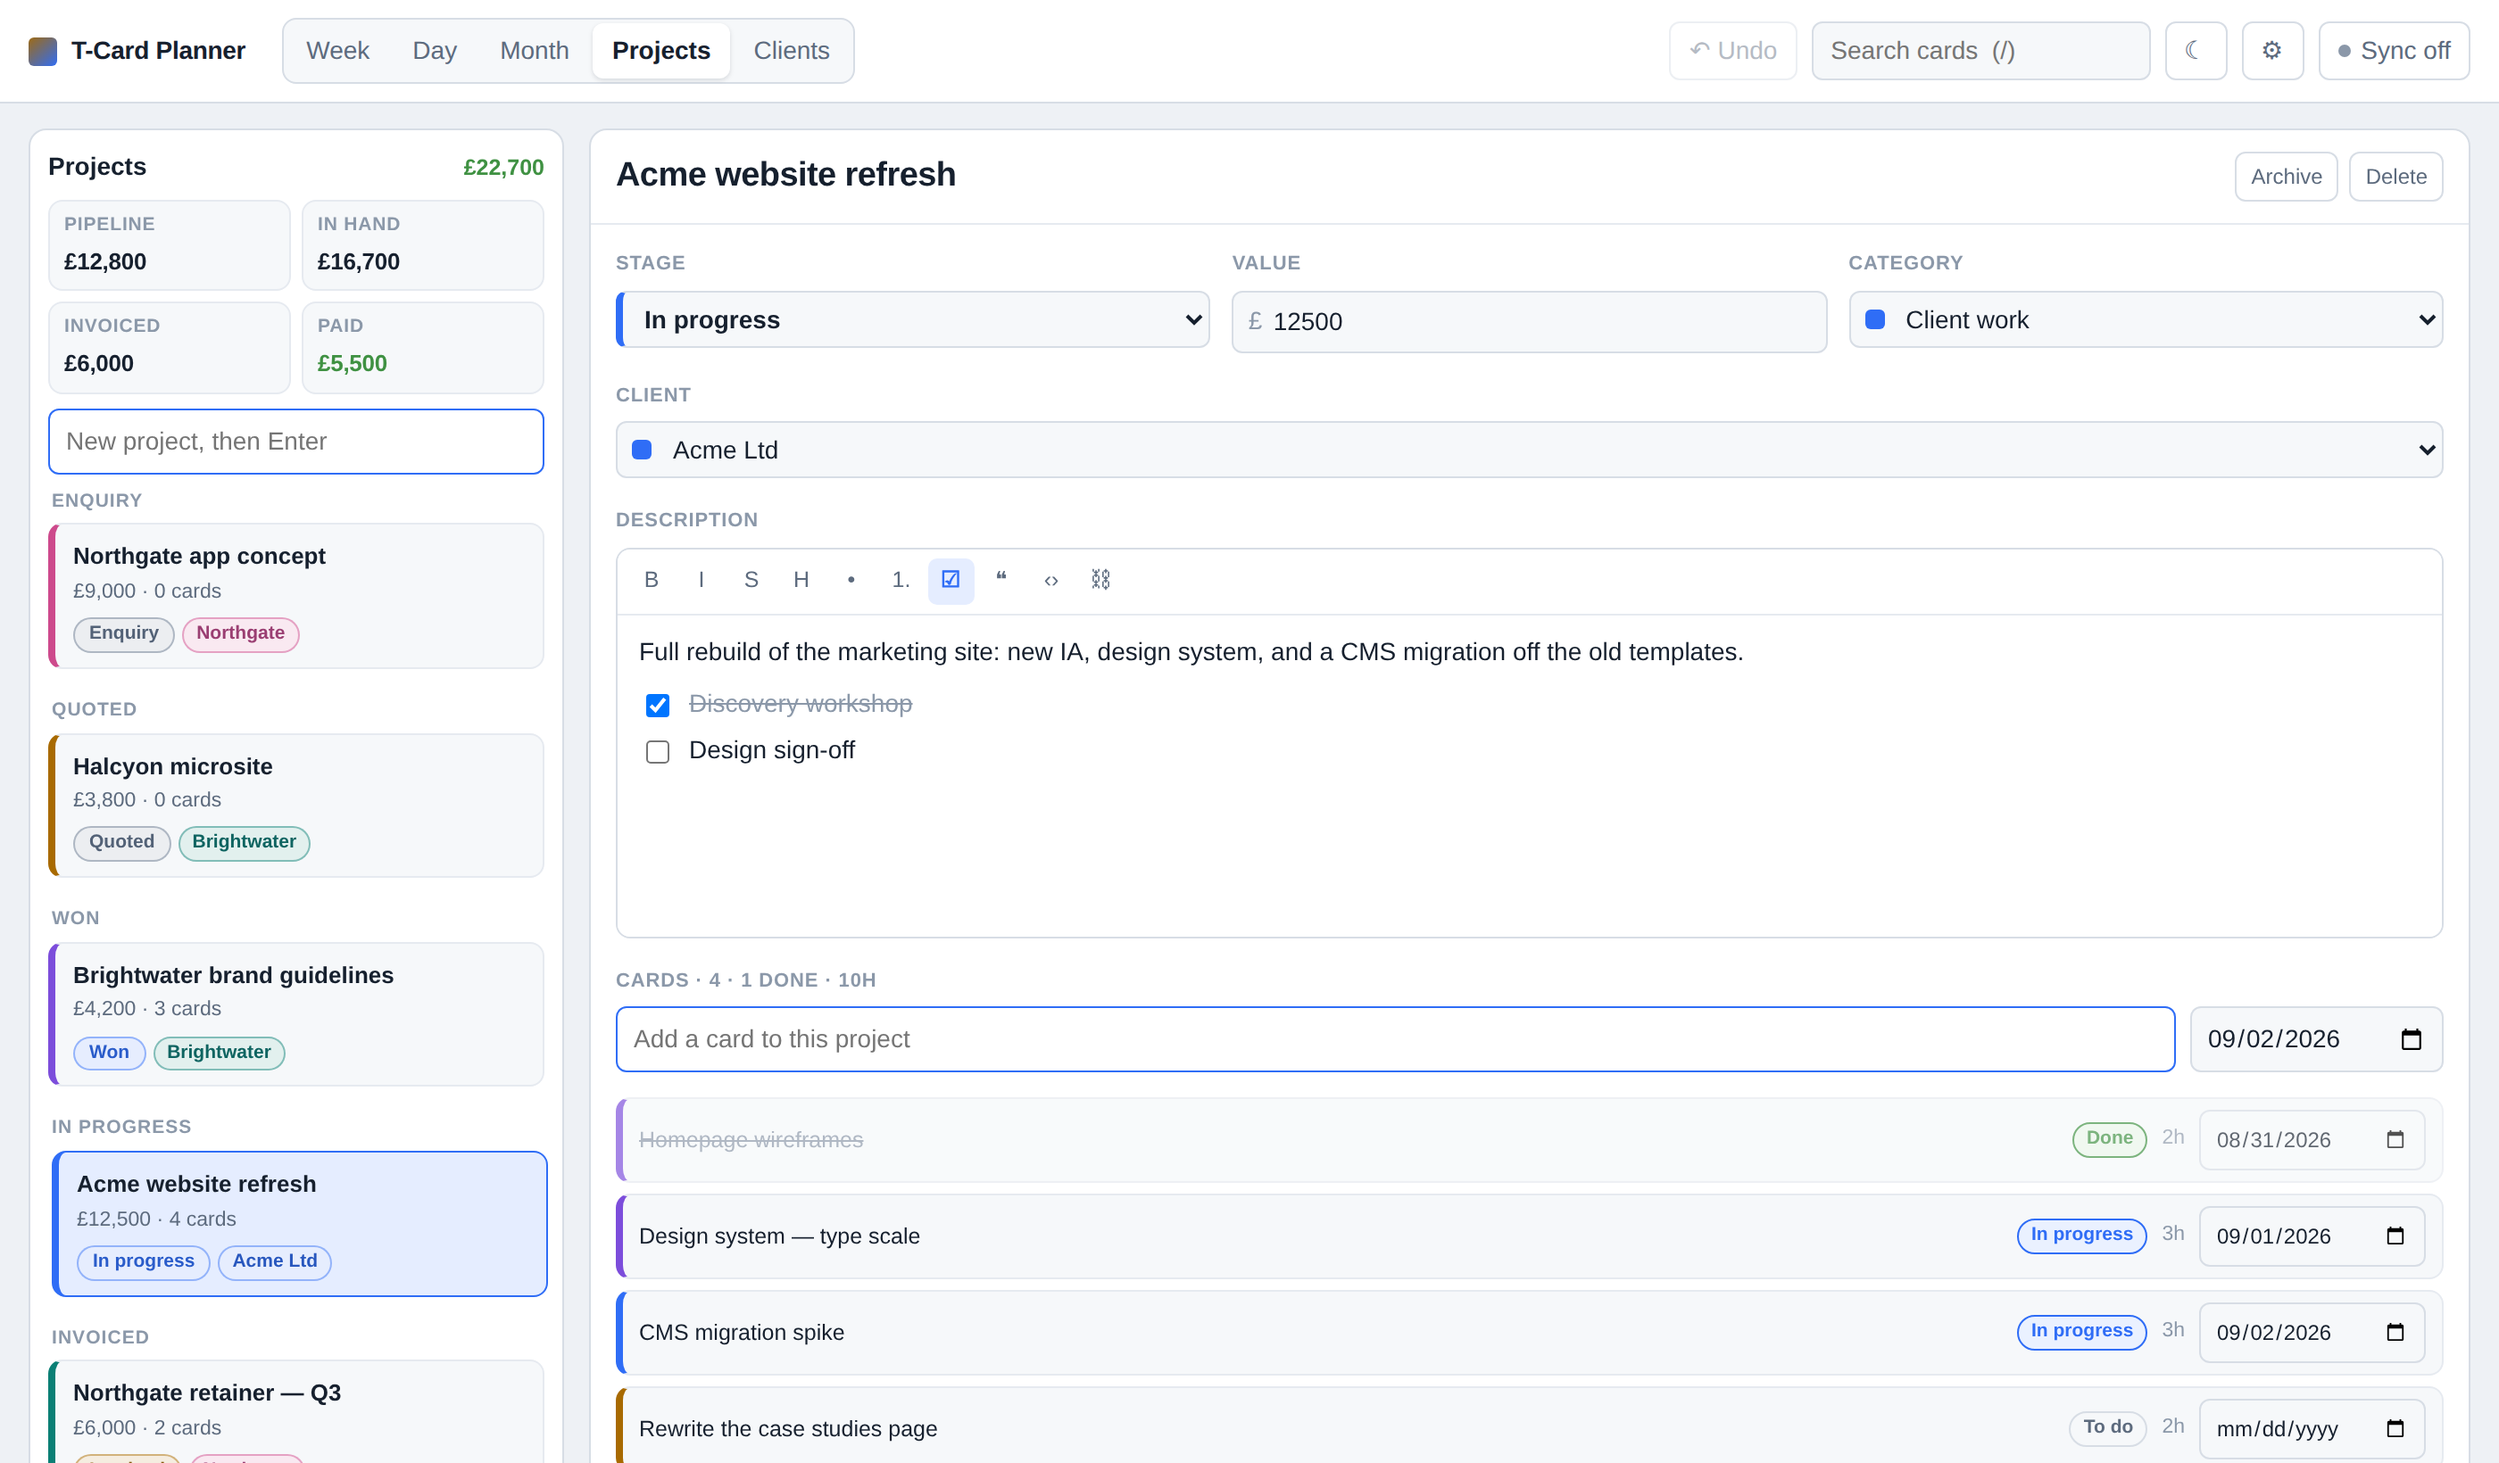
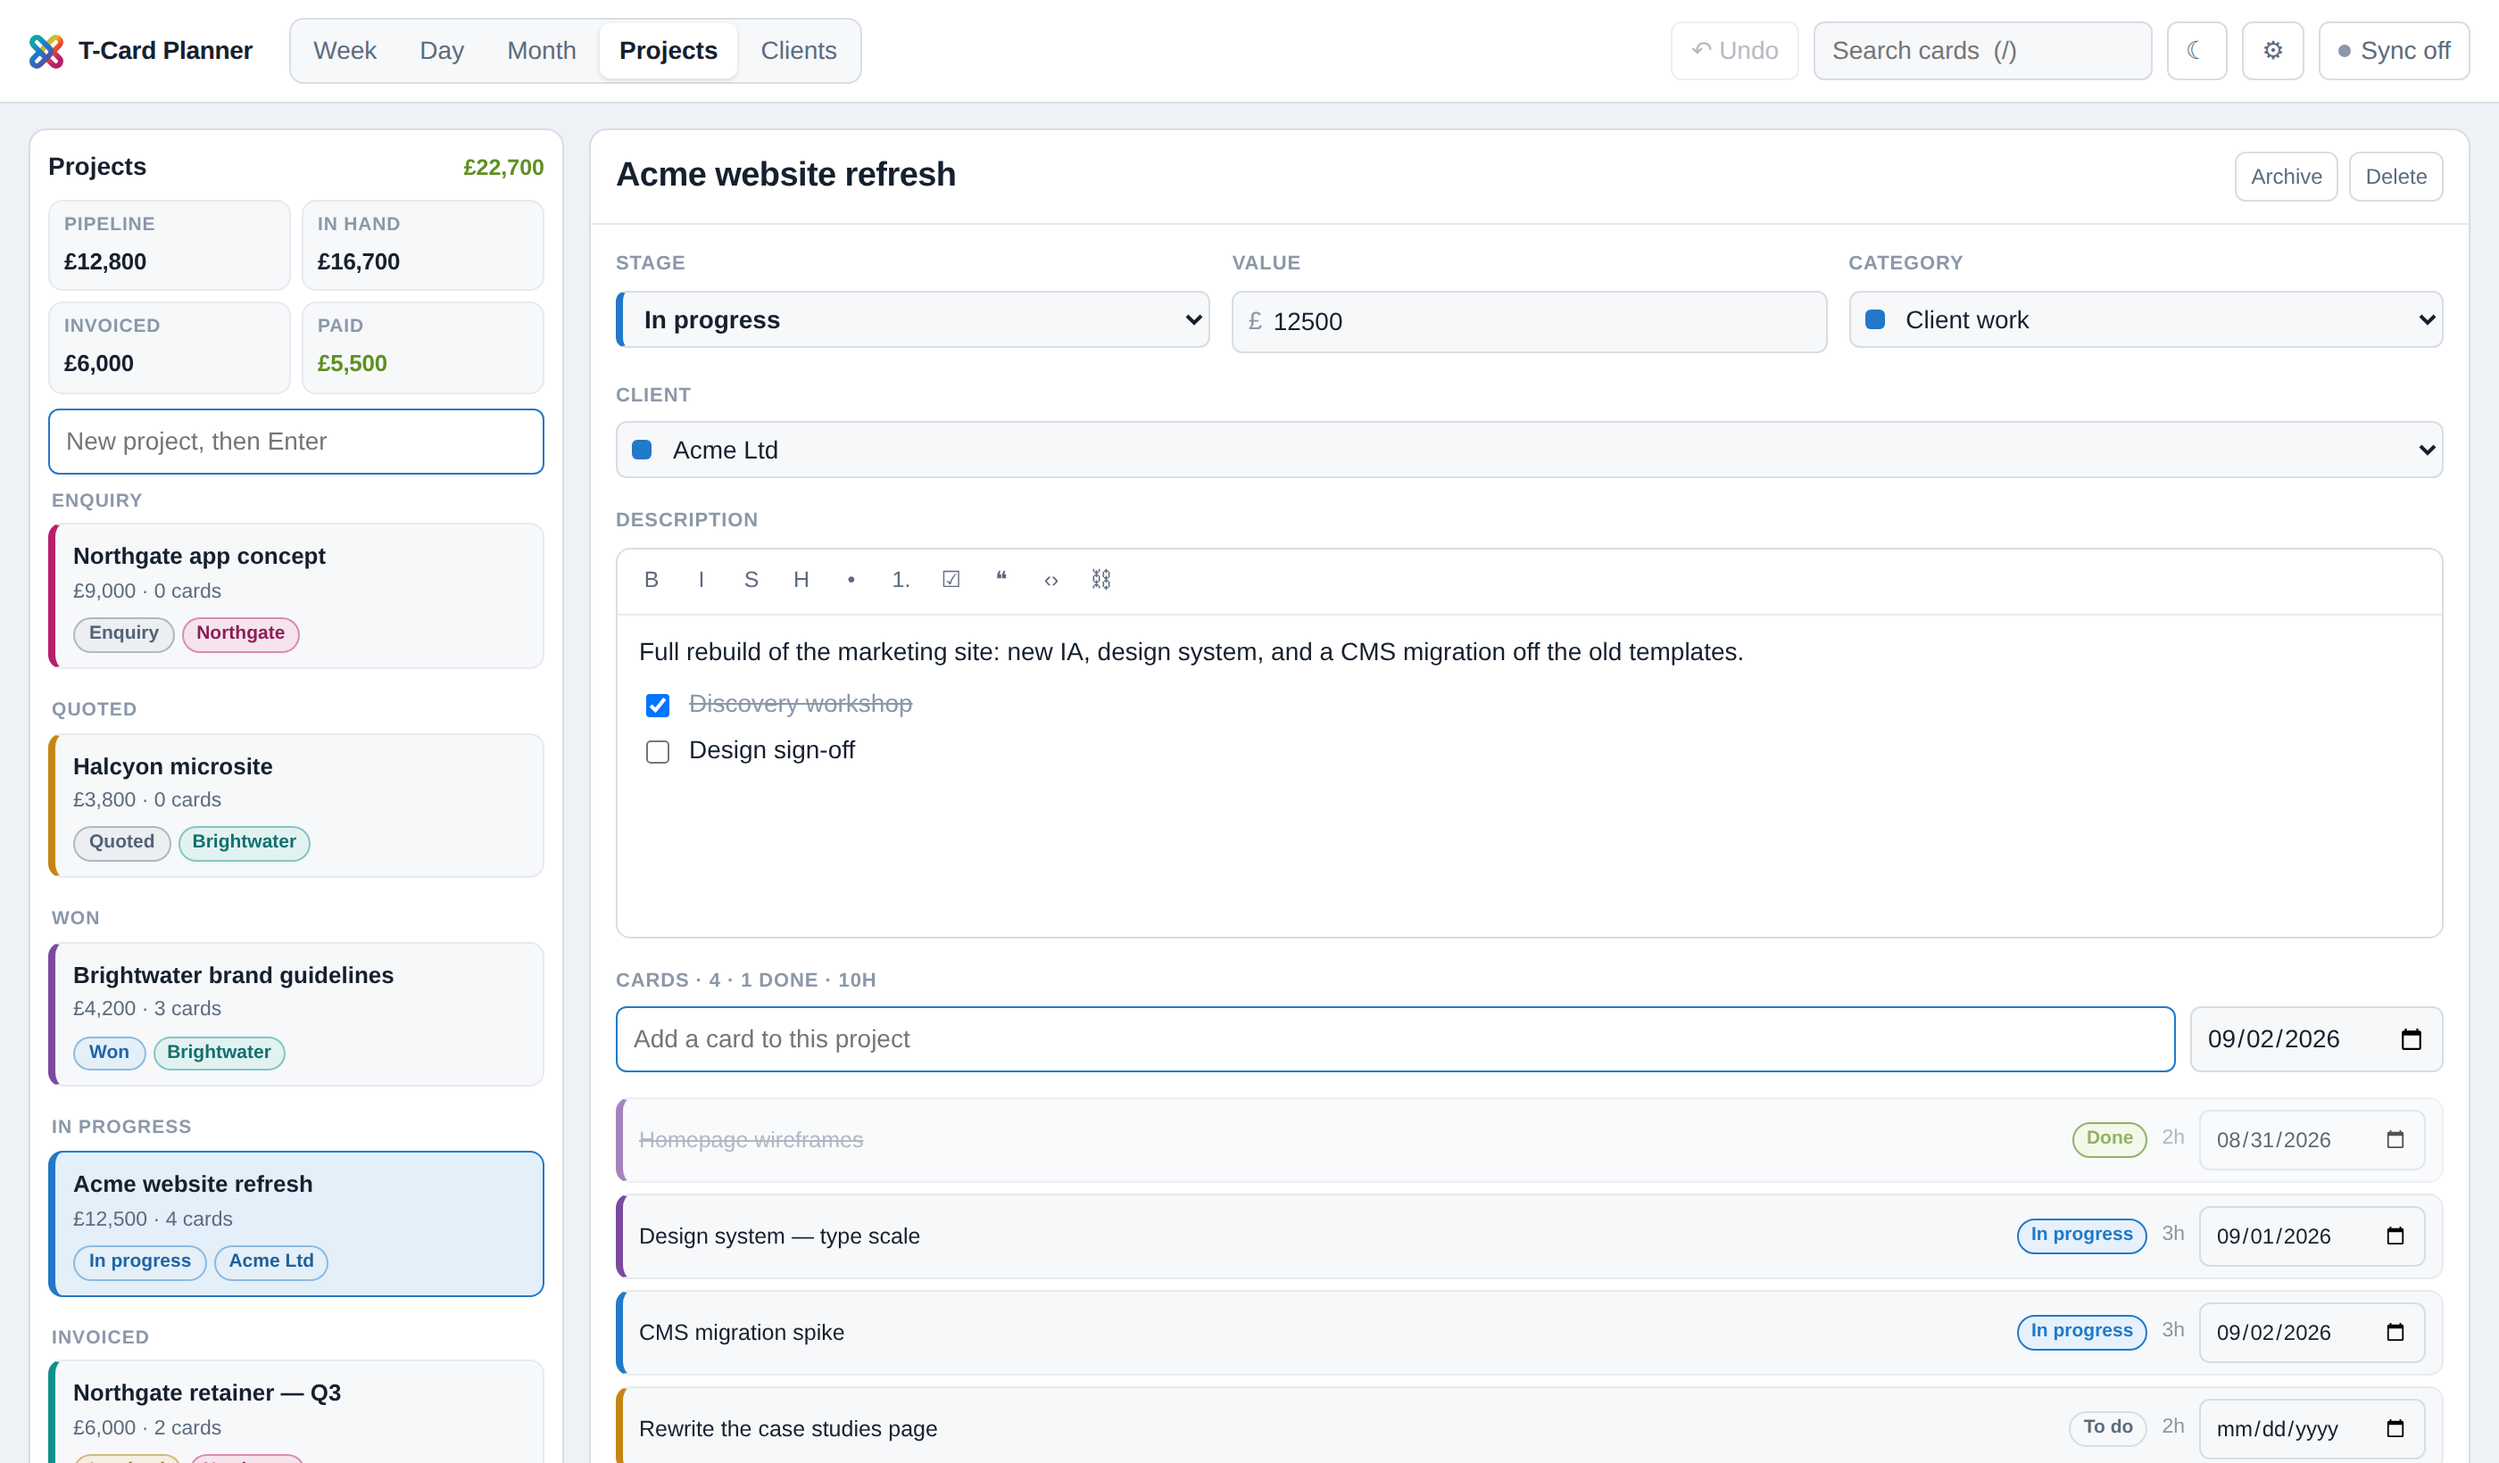
Reshoot the screenshots, and make them repeatable
The nine pictures in docs/ still showed the old blue-and-green palette and the
brand square in the corner, so they now disagreed with the app they document.

They come from `scripts/screenshots.mjs` now rather than from a board someone
built by hand: it serves the built app, writes a demo week into localStorage
and shoots each view at the size the README asks for. The board is the same
one the old screenshots were taken from — a full day, an empty one, a done
pile, a blocked card, a backlog, six projects spread across the pipeline and
three clients — rebuilt as data, with no categories of its own so it picks up
whatever the app's defaults are. A recolour is one command away from being in
the docs.

Claude-Session: https://claude.ai/code/session_0158XyqVjYzRYRjqLMRmJDPS

diff --git a/README.md b/README.md
@@ -543,6 +543,18 @@ like it belongs to the logo in the corner. None of it is fixed: every category
 and client colour is yours to change in Settings, and doing so leaves the mark
 alone.
 
+The screenshots above come from the same place rather than from someone's real
+board: `scripts/screenshots.mjs` serves the built app, writes a demo week into
+it — a full day, an empty one, a done pile, a blocked card, a backlog, and
+projects and clients behind them that add up — then shoots each view at the
+size the README wants it. So the pictures can be caught up with a recolour in
+one command:
+
+```bash
+npm run build
+npm i -D playwright-core && node scripts/screenshots.mjs
+```
+
 ## Layout
 
 ```
@@ -553,6 +565,7 @@ wrangler.jsonc         Worker config — KV binding, assets, SPA fallback
 .env.example           build-time settings; the Microsoft 365 app registration
 public/logo.svg        the mark: the favicon, and the source for the app icons
 scripts/icons.mjs      renders it onto the PWA, maskable and Apple icons
+scripts/screenshots.mjs  rebuilds the docs/ screenshots from a demo board
 src/
   App.tsx              board state, the four views, drag and drop, keyboard, undo
   sync.ts              pull/push, offline queueing, conflict detection, session
